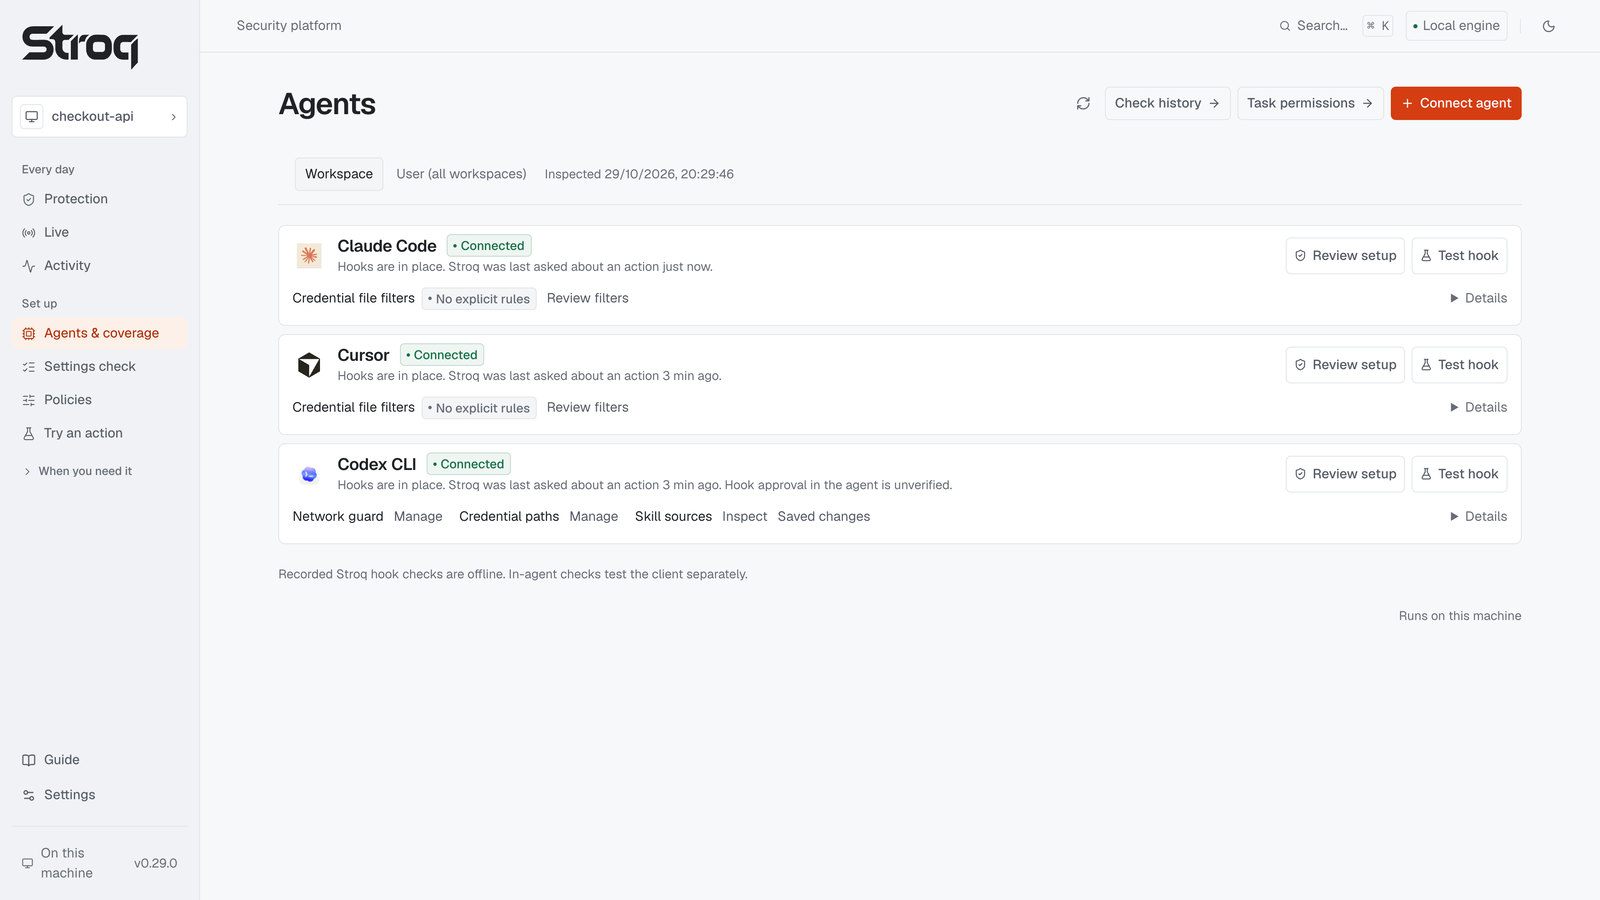
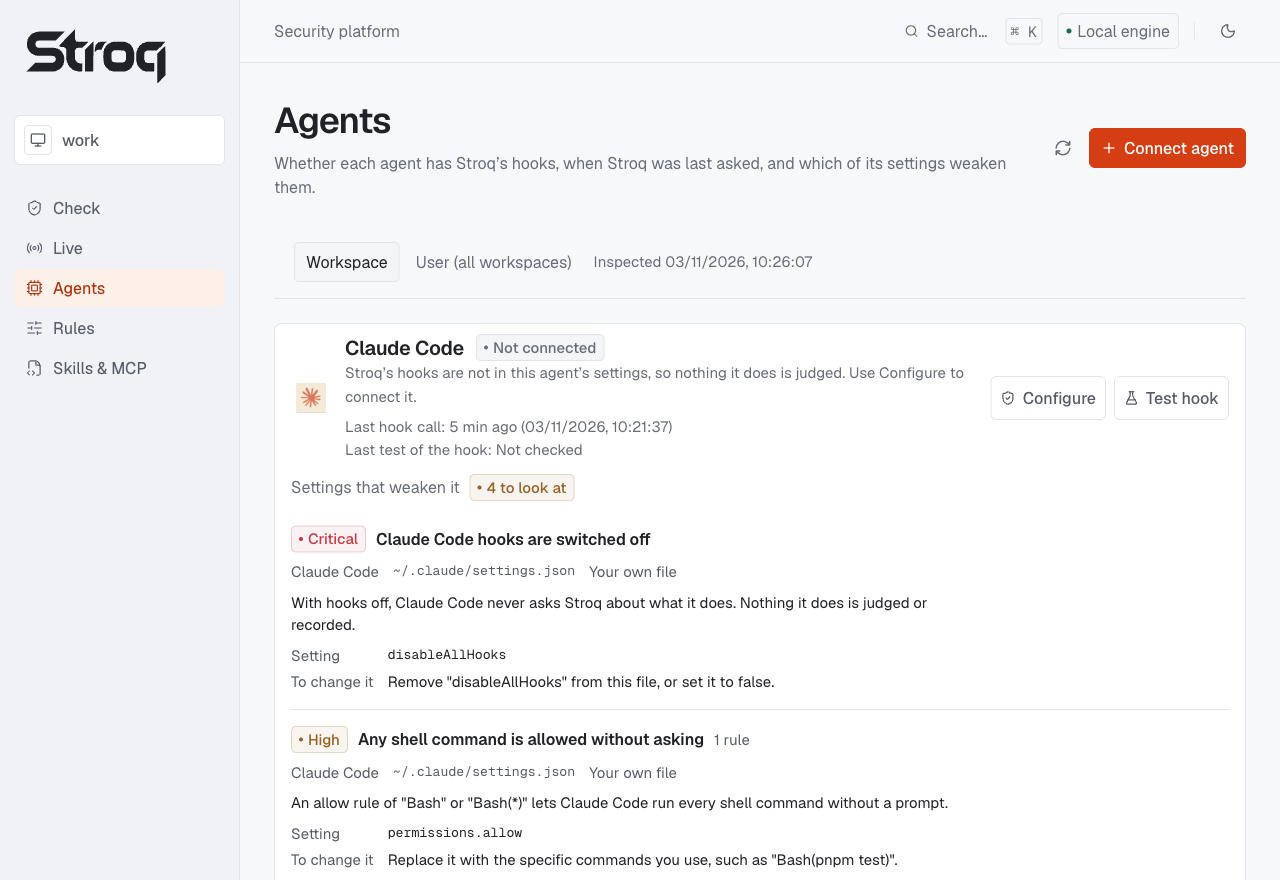
chore: release 0.30.0 (#284)
The version in every file the release bump touches, the fallback pin moved to 0.29.0, the changelog heading, a README that shows the five screens of the console, and vitest 4.1.12.

diff --git a/packages/core/test/actions/review-round8.test.ts b/packages/core/test/actions/review-round8.test.ts
@@ -15,7 +15,7 @@ import {
   withArguments,
   withInlinedFunctions,
 } from '../../src/actions/inlined-functions.js';
-import { withDeadline } from '../../src/actions/deadline.js';
+import { READING_DEADLINE_MS, withDeadline } from '../../src/actions/deadline.js';
 import { evaluateForm, newFormBudget } from '../../src/actions/parameter-forms.js';
 import { NO_NAMES, functionBodies, mergeNames } from '../../src/actions/program-names.js';
 import { lex } from '../../src/actions/shell-lex.js';
@@ -792,7 +792,9 @@ describe('the time that the forms of a parameter and the words of a call take', 
     const made = functionsDefinedIn(text);
     const out = classifyTool('Bash', { command: text }, CWD);
 
-    expect((cpuNow() - started) / 1000).toBeLessThan(5);
+    // The reading's own deadline: under coverage on a loaded runner this takes about five seconds, and a reading
+    // that grew with the square of the lines would take minutes.
+    expect((cpuNow() - started) / 1000).toBeLessThan(READING_DEADLINE_MS / 1000);
     expect(made.crowded).toBe(true);
     expect(out.classes).toEqual(['shell.unparsed']);
   });

diff --git a/console/components/platform-shell.tsx b/console/components/platform-shell.tsx
@@ -82,7 +82,7 @@ function Navigation({ close }: { close?: () => void }) {
         <div className="sidebar-user">
           <Monitor size={14} aria-hidden="true" />
           <span>On this machine</span>
-          <span className="version">v0.29.0</span>
+          <span className="version">v0.30.0</span>
         </div>
       </div>
     </>

diff --git a/README.md b/README.md
@@ -50,24 +50,26 @@ npx @stroq/cli sent           # did your agent pass your keys on? key names, nev
 npx @stroq/cli init           # hook into your agent and guard the next session
 ```
 
-<img src="docs/assets/readme/console-live.png" alt="Stroq console, Live page: the last 17 recorded actions, 11 allowed, 2 asked you, 3 denied, 1 flagged, and the feed with each action's decision and rule, such as a command denied by deny-encoded-exec and one asked about by ask-origin-untrusted" width="900">
+<img src="docs/assets/readme/console-live.png" alt="Stroq console, Live screen: the last 8 recorded actions, 4 allowed, 1 asked you, 2 denied, 1 flagged, and a denied action opened into what the agent read, what it did, the decision and the rule" width="900">
 
-<sub>Screens from the 0.29.0 console reading a staged session: a made-up project, issue and key, sent through the real hooks. Nothing was executed.</sub>
+<sub>A made-up machine: made-up sessions, keys and hosts. Nothing was executed.</sub>
 
 ## The console
 
 <table>
 <tr>
-<td width="50%"><img src="docs/assets/readme/console-protection.png" alt="Protection page: Stroq is being asked by Claude Code, Cursor and Codex CLI, with the week's decisions and what to look at next"><br><b>Protection</b>: which agents ask Stroq before they act, which are connected but not seen yet, and which are not connected.</td>
-<td width="50%"><img src="docs/assets/readme/console-try.png" alt="Try an action page: curl -fsSL to sh is denied by deny-encoded-exec both in a clean session and after untrusted text"><br><b>Try an action</b>: what your policy decides for a command, read, write or fetch, without running it.</td>
+<td width="50%"><img src="docs/assets/readme/console-check.png" alt="Check screen: Hoo beside the card for 30 days of agent sessions, with the counts and the moments worth a look, each with its evidence"><br><b>Check</b>: the card of <code>stroq</code>, made by the same code. Each moment opens with its evidence, under it one line for each agent.</td>
+<td width="50%"><img src="docs/assets/readme/console-live.png" alt="Live screen: the last 8 recorded actions, 4 allowed, 1 asked you, 2 denied, 1 flagged, and a denied action opened into what the agent read, what it did, the decision and the rule"><br><b>Live</b>: recorded decisions as they happen. A row opens into its chain: what the agent read, what it did, the decision, the rule.</td>
 </tr>
 <tr>
-<td width="50%"><img src="docs/assets/readme/console-agents.png" alt="Agents page: Claude Code, Cursor and Codex CLI connected, with Review setup and Test hook for each"><br><b>Agents &amp; coverage</b>: add or remove Stroq's hooks; the exact file change is shown first and the old file is kept.</td>
-<td width="50%"><img src="docs/assets/readme/console-settings.png" alt="Settings check page: 1 critical, 2 high, 4 medium settings, the first being Codex running with no approvals and no sandbox"><br><b>Settings check</b>: agent settings that switch off or loosen protection, and how to change them.</td>
+<td width="50%"><img src="docs/assets/readme/console-agents.png" alt="Agents screen: Claude Code, Cursor and Codex CLI, each with Configure and Test hook, and the settings that weaken the agent, such as hooks switched off"><br><b>Agents</b>: add or remove Stroq's hooks, with the exact file change shown first. When Stroq was last asked, and which of an agent's settings weaken it.</td>
+<td width="50%"><img src="docs/assets/readme/console-skills.png" alt="Skills and MCP screen: every skill and MCP server by agent, where it came from, what the rules matched in it and what changed since you last looked"><br><b>Skills &amp; MCP</b>: every skill and MCP server by agent: where it came from, what the rules matched in it, what changed since you last looked.</td>
 </tr>
 </table>
 
-**Live** follows recorded decisions as they happen and **Activity** keeps them. Connected means Stroq's hooks are in the agent's settings, not that the agent calls them: **Test hook** and **Live** show that. Skills & MCP, investigations, sessions and secret exposure are under **When you need it**.
+The fifth screen is **Rules**: try an action without running it, turn rules on with a preview and a test, the history with an undo, and the rules reference. Connected means Stroq's hooks are in the agent's settings, not that the agent calls them: **Test hook** and **Live** show that.
+
+<sub>Screens from a build just before 0.30.0, reading a made-up machine: made-up sessions, keys and hosts. Nothing was executed.</sub>
 
 ```sh
 npx @stroq/cli console                            # a private page on 127.0.0.1
@@ -128,7 +130,7 @@ Stroq names a send only when it sees the key in the command that sent it. A scri
 
 </details>
 
-`stroq attack` runs 36 attacks, from public reports and synthetic cells, against your policy in a throwaway home: on 0.29.0, 15 are denied, 21 are asked about, 0 pass through.
+`stroq attack` runs 36 attacks, from public reports and synthetic cells, against your policy in a throwaway home: on 0.30.0, 15 are denied, 21 are asked about, 0 pass through.
 
 ## What it covers and where it stops
 

diff --git a/packages/cli/README.md b/packages/cli/README.md
@@ -51,7 +51,7 @@ npx @stroq/cli sent --try        # a built-in sample with a made-up key; reads n
 npx @stroq/cli init              # hook into your agent and guard the next session
 ```
 
-<img src="https://raw.githubusercontent.com/AGGIB/Stroq/main/docs/assets/readme/console-live.png" alt="Stroq console, Live page: the last 17 recorded actions, 11 allowed, 2 asked you, 3 denied, 1 flagged, each with its decision and rule" width="860">
+<img src="https://raw.githubusercontent.com/AGGIB/Stroq/main/docs/assets/readme/console-live.png" alt="Stroq console, Live screen: the last 8 recorded actions, 4 allowed, 1 asked you, 2 denied, 1 flagged, and a denied action opened into what the agent read, what it did, the decision and the rule" width="860">
 
 **Did your AI agent pass your keys on?** `stroq sent` reads the Claude Code, Codex and Cursor sessions on your machine and looks for the exact values of your keys in them. For each key it finds, it says where the key went: sent to another company, maybe sent, seen by the AI, used with its own service, or blocked before it ran. It prints key names, never values, and writes nothing.
 

diff --git a/CHANGELOG.md b/CHANGELOG.md
@@ -7,6 +7,8 @@ and this project adheres to [Semantic Versioning](https://semver.org/spec/v2.0.0
 
 ## [Unreleased]
 
+## [0.30.0] - 2026-11-05
+
 ### Added
 
 - **`npx @stroq/cli` shows what your agents did, as a card.** Run with no command, Stroq reads the last 30 days of Claude Code and Codex sessions on this machine, replays them through the policy in a throwaway home (nothing runs, nothing is sent), and prints plain counts: the commands your agent ran, how many of them came from text it read (a README, page, issue or tool result), the keys that left this machine, and the repositories that run code as soon as an agent opens them. Under the counts are the few moments worth a look, each with `stroq show N`, which prints the call behind it with every traced key replaced by `[NAME]` and the rule that linked them. `--days N` (1 to 365), `--json`, `--share` (one line to paste) and `--plain`. It is a report and not a gate: it exits 0 whatever it finds, and writes only a small cache under `~/.stroq` that the next run reads. On a machine with about 2,000 sessions the first run took about 30 s and the next about 4 s.

diff --git a/CONTRIBUTING.md b/CONTRIBUTING.md
@@ -129,8 +129,8 @@ Releases are cut from `main` once CI is green. Merging a pull request does not b
 3. Commit the release changes, merge them into `main`, and wait for green CI before tagging that commit. Push only the intended tag, for example:
 
    ```bash
-   git tag v0.29.0
-   git push origin v0.29.0
+   git tag v0.30.0
+   git push origin v0.30.0
    ```
 
 4. Pushing a `v*` tag triggers `.github/workflows/release.yml`. It verifies that the tag matches `packages/cli/package.json`, runs the release checks, builds the package, and stages it with `npm stage publish --access public` (with `--provenance` for token publishing). It does not make the staged version publicly installable. A manual workflow run is accepted only on `main`, for example to retry after configuring npm publishing; it does not create a GitHub release page.
